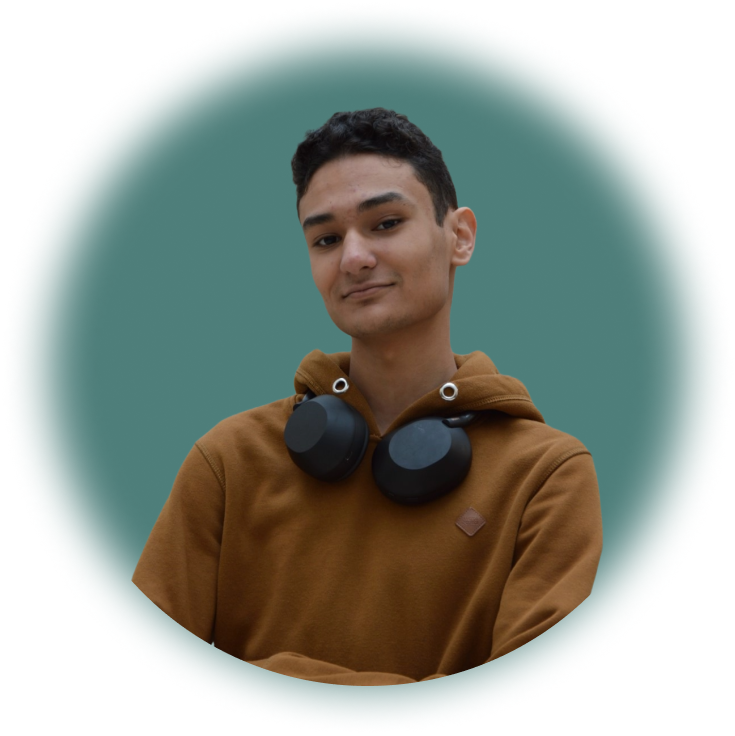
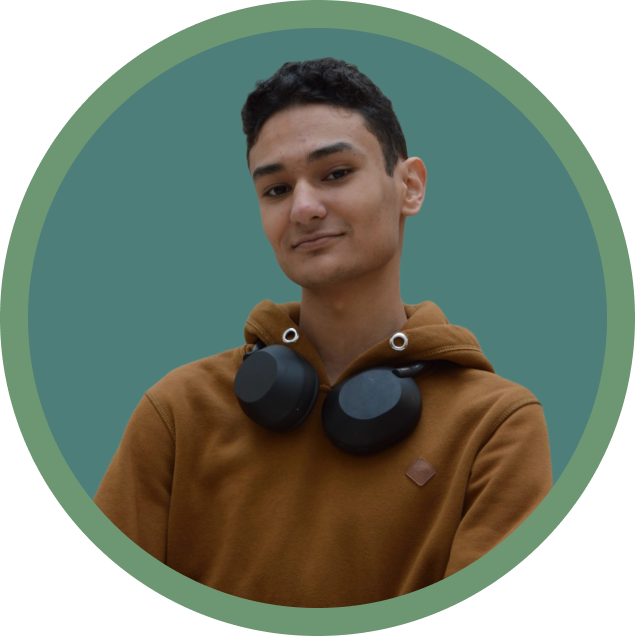
Makes my big face responsive.

diff --git a/src/component/css/Greeting.css b/src/component/css/Greeting.css
@@ -14,6 +14,7 @@
     font-size: 40px;
     font-weight: 500;
     margin-bottom: 0;
+    text-shadow: 4px 4px 3px RGB(0, 0, 0, 0.5);
 }
 
 .greeting-title{
@@ -21,9 +22,32 @@
     font-size: 50px;
     font-weight: 700;
     margin-top: 0;
+    text-shadow: 4px 4px 3px RGB(0, 0, 0, 0.5);
 }
 
 .picture{
     width: 630px;
+}
+
+@media screen and (max-width: 1100px) {
+    .greeting {
+        flex-direction: column;
+        transition: all 0.5s ease;
+    }
+
+    .greeting-left,
+    .greeting-right {
+        justify-content: center;
+        margin: 10px 0;
+        transition: all 0.5s ease;
+    }
+
+    .greeting-title{
+        font-size: 40px;
+    }
+
+    .picture{
+        width: 300px;
+    }
 }
 

diff --git a/src/component/css/Navbar.css b/src/component/css/Navbar.css
@@ -6,6 +6,18 @@
     padding: 10px 20px;
 }
 
+@media screen and (max-width: 600px) {
+    .navbar {
+        flex-direction: column;
+    }
+
+    .navbar-left,
+    .navbar-right {
+        justify-content: center;
+        margin: 10px 0;
+    }
+}
+
 .navbar-left {
     display: flex;
     align-items: center;
